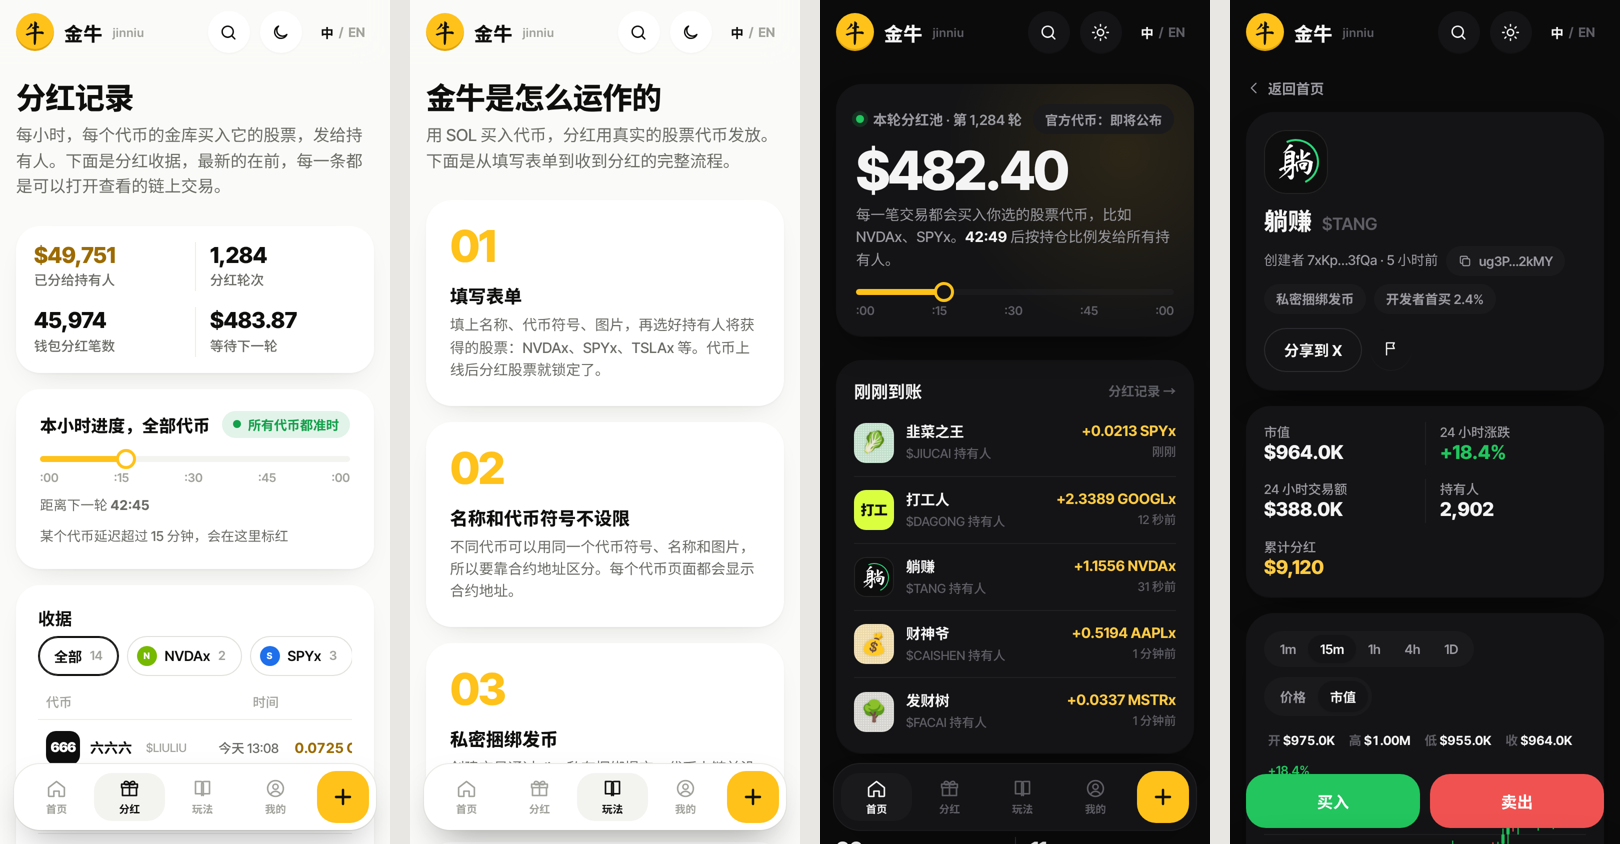
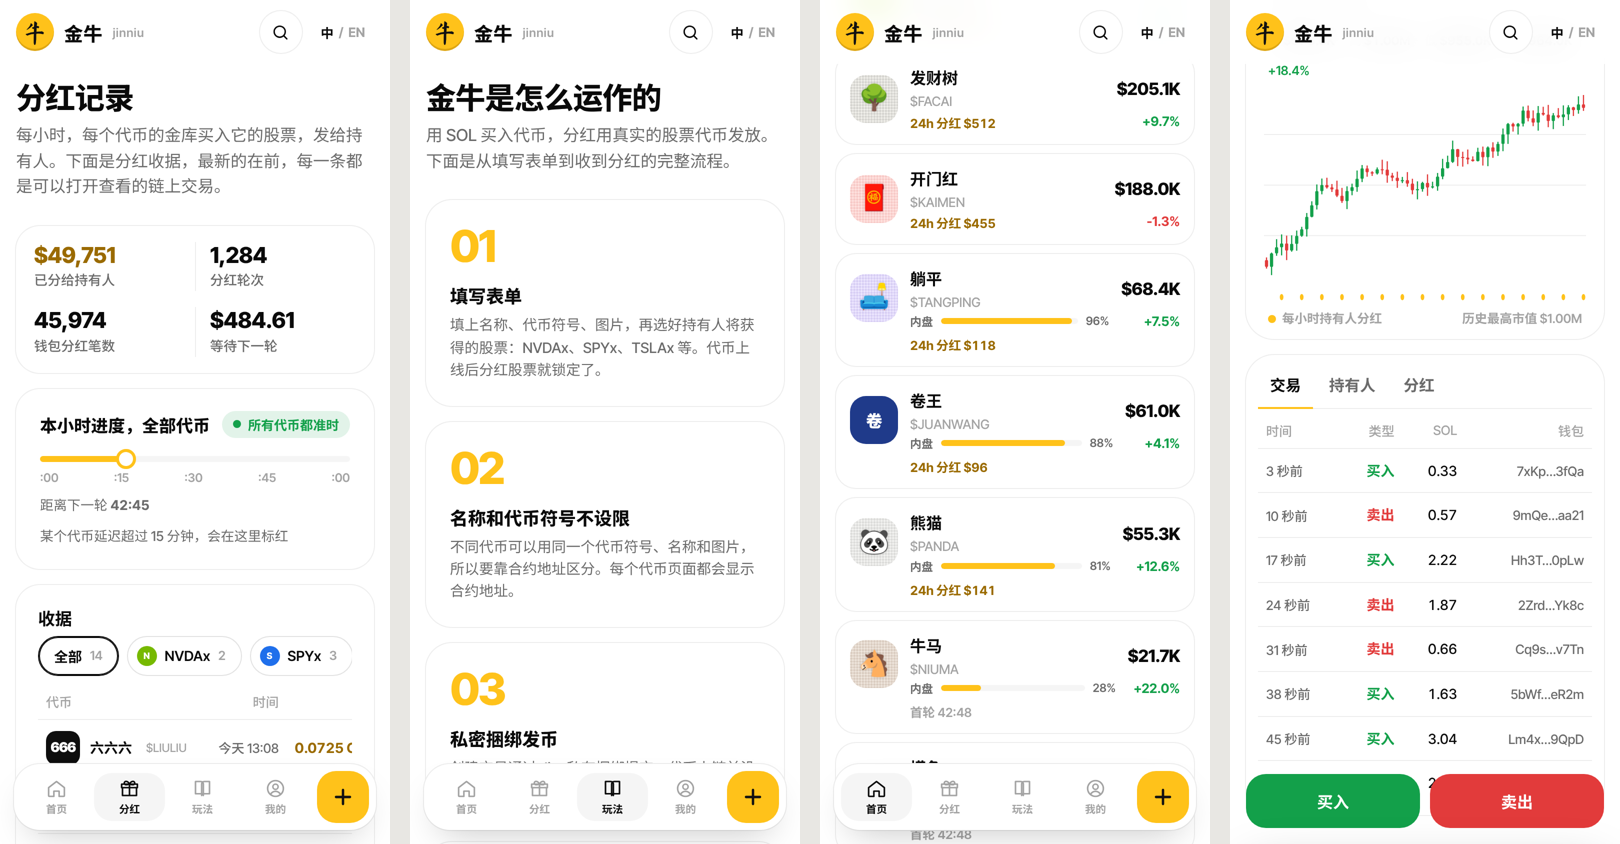
金牛 prototype: white only, cleaner
The owner wants it white and clean. The page is pure white with neutral
greys; cards, pills and buttons are drawn with hairlines instead of
shadows (a soft lift only on hover); the hero's gold glow is gone; and
the dark theme and its button are dropped. Gold stays for the one button,
the brand and anything holders are paid. CLAUDE.md, docs/BRAND.md and the
screenshots in brand/proposals/2026-11-02/jinniu/ follow.

Claude-Session: https://claude.ai/code/session_01GSU5jCk94sebeRPp2SSKC1

diff --git a/prototype/jinniu-prototype.html b/prototype/jinniu-prototype.html
@@ -10,30 +10,23 @@
 <style>
 /* 金牛 jinniu (owner, 2026-11-02): the brand that replaces hwai, in the clean look of proposal v4
    (brand/proposals/2026-11-02/v4-clean.html). Clean like Pons without its layout: a light page with
-   room (dark one click away), a top bar with the nav as a centred pill, one gold button, the round's
+   room, white only (owner, 2026-11-02: no dark theme), a top bar with the nav as a centred pill, one gold button, the round's
    pool as the hero with the hour as a line, a bento of featured coins, coins browsed by dividend
    stock, coins as cards, a floating dock on phones. Faces: Inter Tight for Latin and numbers, Noto
    Sans SC for Chinese. The mark is 牛 brushed on a gold coin (sketched here in Ma Shan Zheng; the
    final mark is drawn as paths). Every number on the page is demo data. */
 :root{
   color-scheme:light;
-  --bg:#FAFAF8;--card:#FFFFFF;--s1:#F3F3F0;--s2:#EAEAE6;--line:#ECECE8;--line2:#E0E0DB;
-  --tx:#0F0F0E;--tx2:#6B6B66;--tx3:#A2A29C;
+  --bg:#FFFFFF;--card:#FFFFFF;--s1:#F5F5F5;--s2:#EDEDED;--line:#EEEEEE;--line2:#E2E2E2;
+  --tx:#0A0A0A;--tx2:#6B6B6B;--tx3:#A3A3A3;
   --green:#13A04A;--red:#E23B3B;
-  --div:#9C6B00;--div-bg:#FFF3D1;
-  --acc:#FFC21A;--acc-hi:#FFCD3F;--acc-ink:#111;--acc-soft:#FFF6DA;
-  --sh:0 1px 2px rgba(20,20,10,.04),0 12px 32px -18px rgba(20,20,10,.18);
-  --sh-lg:0 30px 70px -30px rgba(20,20,10,.4);
+  --div:#9A6A00;--div-bg:#FFF8E6;
+  --acc:#FFC21A;--acc-hi:#FFCD3F;--acc-ink:#111;
+  --sh:0 0 0 1px var(--line);
+  --lift:0 0 0 1px var(--line2),0 14px 30px -20px rgba(0,0,0,.22);
+  --sh-lg:0 30px 70px -30px rgba(0,0,0,.3);
   --ff:"Inter Tight","Noto Sans SC","PingFang SC","Microsoft YaHei",system-ui,sans-serif;
   --up:var(--green);--dn:var(--red);
-}
-:root[data-theme="dark"]{
-  color-scheme:dark;
-  --bg:#0B0B0C;--card:#141416;--s1:#1A1A1D;--s2:#232327;--line:#212124;--line2:#2C2C30;
-  --tx:#F4F4F5;--tx2:#9A9AA0;--tx3:#5E5E65;--green:#22C55E;--red:#F05252;
-  --div:#FFCB45;--div-bg:rgba(255,203,69,.10);--acc-soft:rgba(255,194,26,.10);
-  --sh:0 1px 0 rgba(255,255,255,.03),0 16px 40px -20px rgba(0,0,0,.9);
-  --sh-lg:0 30px 70px -30px rgba(0,0,0,.95);
 }
 :root[data-updown="cn"]{--up:var(--red);--dn:var(--green)}
 *{box-sizing:border-box}
@@ -59,7 +52,6 @@ svg.ic{width:20px;height:20px;flex:none;fill:none;stroke:currentColor;stroke-wid
 /* coin pictures: stand-ins for creators' uploads */
 .tile{position:relative;display:grid;place-items:center;overflow:hidden;flex:none;background:var(--t-bg);color:var(--t-fg);font-size:var(--z)}
 .tile.dots{background:radial-gradient(circle,var(--t-dot) 1px,transparent 1.4px) 0 0/calc(var(--z)*.06) calc(var(--z)*.06),var(--t-bg)}
-:root[data-theme="dark"] .tile{box-shadow:inset 0 0 0 1px rgba(255,255,255,.09)}
 .tile .em{font:400 .52em/1 "Noto Color Emoji","Apple Color Emoji","Segoe UI Emoji",sans-serif;filter:drop-shadow(0 .03em .05em rgba(0,0,0,.18))}
 .tile .brush{font:400 .62em/1 "Ma Shan Zheng",serif}
 .tile .heavy{font:900 .34em/1 "Noto Sans SC",sans-serif;letter-spacing:-.02em}
@@ -104,7 +96,7 @@ button.pill:hover{color:var(--tx)}
 .bar i{position:absolute;inset:0 auto 0 0;border-radius:99px;background:var(--acc)}
 
 /* header */
-header.top{position:sticky;top:0;z-index:60;background:color-mix(in srgb,var(--bg) 82%,transparent);backdrop-filter:blur(16px);-webkit-backdrop-filter:blur(16px)}
+header.top{position:sticky;top:0;z-index:60;background:rgba(255,255,255,.88);backdrop-filter:blur(16px);-webkit-backdrop-filter:blur(16px)}
 .top .wrap{position:relative;display:flex;align-items:center;gap:10px;height:76px}
 .navpill{position:absolute;left:50%;transform:translateX(-50%);display:flex;gap:2px;padding:4px;border-radius:999px;background:var(--card);box-shadow:var(--sh)}
 .navpill a{padding:8px 18px;border-radius:999px;font:600 15px var(--ff);color:var(--tx2)}
@@ -118,7 +110,6 @@ header.top{position:sticky;top:0;z-index:60;background:color-mix(in srgb,var(--b
 /* home: hero */
 .hero{display:grid;grid-template-columns:minmax(0,1.25fr) minmax(0,.75fr);gap:24px;margin-top:20px}
 .pool{position:relative;overflow:hidden;padding:32px 36px 30px;border-radius:30px}
-.pool::after{content:"";position:absolute;right:-110px;top:-110px;width:360px;height:360px;border-radius:50%;background:radial-gradient(circle,var(--acc-soft),transparent 70%);pointer-events:none}
 .eyebrow{position:relative;z-index:1;display:flex;align-items:center;gap:9px;font:600 14px var(--ff);color:var(--tx2);flex-wrap:wrap}
 .eyebrow .pill{margin-left:auto}
 .pool .big{position:relative;z-index:1;font:800 clamp(56px,8vw,96px)/1 var(--ff);letter-spacing:-.045em;margin:16px 0 12px}
@@ -159,7 +150,7 @@ header.top{position:sticky;top:0;z-index:60;background:color-mix(in srgb,var(--b
 .sh p{margin:0;font:500 14.5px var(--ff);color:var(--tx3)}
 .sh .r{margin-left:auto;display:flex;gap:10px;align-items:center;flex-wrap:wrap}
 .bento{display:grid;grid-template-columns:minmax(0,1.6fr) minmax(0,1fr) minmax(0,1fr);gap:16px}
-.feat{grid-row:span 2;padding:24px;border-radius:28px;display:flex;flex-direction:column;cursor:pointer}
+.feat{grid-row:span 2;padding:24px;border-radius:28px;display:flex;flex-direction:column;cursor:pointer;transition:transform .15s,box-shadow .15s}
 .feat .hd{display:flex;gap:18px;align-items:center}
 .feat .tile{width:112px;height:112px;border-radius:24px;--z:112px}
 .feat h3{margin:8px 0 2px;font:800 26px/1.15 var(--ff)}
@@ -175,8 +166,8 @@ header.top{position:sticky;top:0;z-index:60;background:color-mix(in srgb,var(--b
 .box>span{display:block;font:500 12.5px var(--ff);color:var(--tx2)}
 .box>b{display:inline-flex;align-items:center;gap:7px;font:700 17px var(--ff)}
 .box>b.g{color:var(--div)}
-.mini{padding:18px;border-radius:24px;cursor:pointer;transition:transform .15s}
-.mini:hover,.cc:hover{transform:translateY(-2px)}
+.mini{padding:18px;border-radius:24px;cursor:pointer;transition:transform .15s,box-shadow .15s}
+.mini:hover,.cc:hover,.feat:hover{transform:translateY(-2px);box-shadow:var(--lift)}
 .mini .tile{width:100%;aspect-ratio:1.55;border-radius:18px;--z:150px}
 .mini .tile .em{font-size:.62em}.mini .tile .heavy{font-size:.4em}.mini .tile .num{font-size:.46em}.mini .tile .brush{font-size:.66em}
 .mini .nm{display:flex;align-items:baseline;gap:7px;margin-top:12px;font:700 16px var(--ff)}
@@ -188,7 +179,7 @@ header.top{position:sticky;top:0;z-index:60;background:color-mix(in srgb,var(--b
 .search input{border:0;outline:0;background:transparent;flex:1;min-width:0;color:var(--tx);font-size:14.5px}
 .search input::placeholder{color:var(--tx3)}
 .grid{display:grid;grid-template-columns:repeat(4,minmax(0,1fr));gap:16px;margin-top:20px}
-.cc{padding:18px;border-radius:24px;cursor:pointer;transition:transform .15s}
+.cc{padding:18px;border-radius:24px;cursor:pointer;transition:transform .15s,box-shadow .15s}
 .cc .hd{display:flex;align-items:center;gap:12px}
 .cc .tile{width:54px;height:54px;border-radius:16px;--z:54px}
 .cc .nm{min-width:0}
@@ -232,7 +223,7 @@ header.top{position:sticky;top:0;z-index:60;background:color-mix(in srgb,var(--b
 .chartc{padding:18px 18px 12px;border-radius:28px}
 .chart-top{display:flex;justify-content:space-between;gap:10px;flex-wrap:wrap}
 .chart-top .seg{box-shadow:none;background:var(--s1)}
-.chart-top .seg button[aria-pressed="true"]{background:var(--card);color:var(--tx);box-shadow:0 1px 2px rgba(0,0,0,.08)}
+.chart-top .seg button[aria-pressed="true"]{background:var(--card);color:var(--tx);box-shadow:0 0 0 1px var(--line2)}
 .legend{display:flex;gap:14px;flex-wrap:wrap;margin:14px 4px 0;font:600 12.5px var(--ff);color:var(--tx3)}
 .legend b{color:var(--tx);font-weight:700}
 svg.kl{display:block;width:100%;height:320px;margin-top:6px}
@@ -356,7 +347,6 @@ table.t{width:100%;border-collapse:collapse}
 .mesum .card{padding:22px 24px;border-radius:26px}
 .mesum .card>span{display:block;font:500 13.5px var(--ff);color:var(--tx2)}
 .mesum .card>b{font:800 30px/1.2 var(--ff);letter-spacing:-.02em}
-.mesum .first{background:linear-gradient(160deg,var(--acc-soft),transparent 60%),var(--card)}
 .mesum .first>b{color:var(--div);font-size:40px}
 .mesum small{display:block;margin-top:2px;color:var(--tx2);font-size:13.5px}
 .mesum small b{font-weight:700;color:var(--up)}
@@ -388,11 +378,11 @@ footer.foot{margin-top:40px;border-top:1px solid var(--line)}
   .steps{grid-template-columns:1fr 1fr}
   .stocks{grid-template-columns:repeat(3,minmax(0,1fr))}
 }
-@media (max-width:1100px) and (min-width:1001px){.top .lang,.top .theme{display:none}}
+@media (max-width:1100px) and (min-width:1001px){.top .lang{display:none}}
 @media (max-width:1000px){
   .navpill{display:none}
   body{padding-bottom:110px}
-  .dock{display:grid;grid-template-columns:repeat(4,1fr) auto;align-items:center;gap:2px;position:fixed;left:50%;transform:translateX(-50%);width:min(520px,calc(100% - 28px));bottom:calc(14px + env(safe-area-inset-bottom,0px));z-index:80;padding:7px;border-radius:26px;background:var(--card);box-shadow:0 18px 40px -14px rgba(0,0,0,.35),0 0 0 1px var(--line)}
+  .dock{display:grid;grid-template-columns:repeat(4,1fr) auto;align-items:center;gap:2px;position:fixed;left:50%;transform:translateX(-50%);width:min(520px,calc(100% - 28px));bottom:calc(14px + env(safe-area-inset-bottom,0px));z-index:80;padding:7px;border-radius:26px;background:var(--card);box-shadow:0 16px 36px -16px rgba(0,0,0,.25),0 0 0 1px var(--line)}
   .dock a{display:flex;flex-direction:column;align-items:center;gap:2px;padding:5px 0;border-radius:18px;font:600 10.5px var(--ff);color:var(--tx3)}
   .dock a[aria-current="page"]{color:var(--tx);background:var(--s1)}
   .dock svg{width:21px;height:21px}
@@ -468,7 +458,7 @@ footer.foot{margin-top:40px;border-top:1px solid var(--line)}
   svg.kl{height:220px}
   .tabsc{padding:4px 12px 10px}
   .t .hide-s{display:none}
-  .cgrid aside .trade{position:fixed;left:0;right:0;bottom:0;z-index:95;border-radius:26px 26px 0 0;padding:10px 18px calc(22px + env(safe-area-inset-bottom,0px));transform:translateY(105%);transition:transform .25s ease;box-shadow:0 -20px 50px -20px rgba(0,0,0,.45)}
+  .cgrid aside .trade{position:fixed;left:0;right:0;bottom:0;z-index:95;border-radius:26px 26px 0 0;padding:10px 18px calc(22px + env(safe-area-inset-bottom,0px));transform:translateY(105%);transition:transform .25s ease;box-shadow:0 -20px 50px -20px rgba(0,0,0,.25),0 0 0 1px var(--line)}
   .cgrid aside .trade::before{content:"";display:block;width:40px;height:4px;border-radius:9px;background:var(--line2);margin:0 auto 12px}
   body.sheet .cgrid aside .trade{transform:none}
   body.sheet .sheet-bg{display:block;position:fixed;inset:0;z-index:94;background:rgba(0,0,0,.35)}
@@ -496,8 +486,6 @@ footer.foot{margin-top:40px;border-top:1px solid var(--line)}
   <symbol id="i-plus" viewBox="0 0 24 24"><path d="M12 5v14M5 12h14"/></symbol>
   <symbol id="i-gift" viewBox="0 0 24 24"><path d="M4 11h16v9H4zM3 7h18v4H3zM12 7v13M12 7c-2-4-6-4-6-1s6 1 6 1zm0 0c2-4 6-4 6-1s-6 1-6 1z"/></symbol>
   <symbol id="i-book" viewBox="0 0 24 24"><path d="M4 4h6a3 3 0 0 1 3 3v13a2 2 0 0 0-2-2H4zM20 4h-6a3 3 0 0 0-3 3v13a2 2 0 0 1 2-2h7z"/></symbol>
-  <symbol id="i-moon" viewBox="0 0 24 24"><path d="M20 14.5A8 8 0 1 1 9.5 4a6.5 6.5 0 0 0 10.5 10.5z"/></symbol>
-  <symbol id="i-sun" viewBox="0 0 24 24"><circle cx="12" cy="12" r="4"/><path d="M12 2v2M12 20v2M4.9 4.9l1.4 1.4M17.7 17.7l1.4 1.4M2 12h2M20 12h2M4.9 19.1l1.4-1.4M17.7 6.3l1.4-1.4"/></symbol>
   <symbol id="i-wallet" viewBox="0 0 24 24"><path d="M4 7a2 2 0 0 1 2-2h11v4"/><rect x="4" y="9" width="16" height="11" rx="2"/><path d="M16 14.5h.01"/></symbol>
   <symbol id="i-home" viewBox="0 0 24 24"><path d="M3 11l9-7 9 7v9a1 1 0 0 1-1 1h-5v-6H9v6H4a1 1 0 0 1-1-1z"/></symbol>
   <symbol id="i-me" viewBox="0 0 24 24"><circle cx="12" cy="12" r="9"/><circle cx="12" cy="10" r="3"/><path d="M6.5 18.5c1.3-2.2 3.2-3.3 5.5-3.3s4.2 1.1 5.5 3.3"/></symbol>
@@ -520,7 +508,6 @@ footer.foot{margin-top:40px;border-top:1px solid var(--line)}
     </nav>
     <div class="tr">
       <button class="icb" type="button" id="findBtn" aria-label="搜索代币"><svg class="ic"><use href="#i-search"/></svg></button>
-      <button class="icb theme" type="button" id="themeBtn" aria-label="切换深色模式"><svg class="ic"><use href="#i-moon"/></svg></button>
       <div class="lang" role="group" aria-label="语言"><button type="button" aria-pressed="true">中</button><i>/</i><button type="button" aria-pressed="false">EN</button></div>
       <a class="btn btn-ghost connectb" href="#me"><svg class="ic" style="width:18px;height:18px"><use href="#i-wallet"/></svg>连接钱包</a>
       <a class="btn btn-acc createb" href="#create">创建代币</a>
@@ -974,10 +961,7 @@ $("#holds").innerHTML=[["JIUCAI","1,204,551","$2,191","+0.0213 SPYx","$118.40"],
 $("#cfTile").innerHTML=tile("dagong");
 $("#claim").onclick=()=>toast("演示原型：这里会请你的钱包签名领取");
 
-/* ---------- theme, up/down, language ---------- */
-function setTheme(t){document.documentElement.dataset.theme=t;$("#themeBtn use").setAttribute("href",t==="dark"?"#i-sun":"#i-moon");store.set("jn-theme",t);if($("[data-view=coin].on"))drawChart()}
-setTheme(store.get("jn-theme")||(matchMedia("(prefers-color-scheme: dark)").matches?"dark":"light"));
-$("#themeBtn").onclick=()=>setTheme(document.documentElement.dataset.theme==="dark"?"light":"dark");
+/* ---------- up/down, language ---------- */
 $$("[data-ud]").forEach(b=>b.onclick=()=>{document.documentElement.dataset.updown=b.dataset.ud==="red"?"cn":"intl";$$("[data-ud]").forEach(x=>x.setAttribute("aria-pressed",x===b))});
 $$(".lang button").forEach(b=>b.onclick=()=>$$(".lang button").forEach(x=>x.setAttribute("aria-pressed",x===b)));
 

diff --git a/CLAUDE.md b/CLAUDE.md
@@ -7,7 +7,7 @@ Divvy is a Solana memecoin launchpad built on Raydium LaunchLab. Every coin trad
 
 **Name:** the product is **hwai** (`hwai.ai`) since 2026-10-31, the owner's rebrand; they dropped the uspad name and its Koin belah logo entirely (uspad on `uspad.fun` ran from 2026-10-26; the repo is still `fourtisf/uspad`). Everything users see says hwai, with the brush seal mark (牛, the bull of 牛市, brushed in a hand-stamped lime seal) and the brush "hwai" wordmark (owner, 2026-11-01: the earlier geometric logos looked "too AI"). `brand/hwai/src/niu.py` draws them from Ma Shan Zheng outlines (SIL OFL 1.1, `glyphs.json`), so no font file ships. The name comes from `BRAND` in `packages/shared/src/brand.ts`: web copy, API messages, the sign-in statement, alerts and new coins' metadata. The X and Telegram handles are build-time env (`NEXT_PUBLIC_X_HANDLE`, `NEXT_PUBLIC_TELEGRAM_HANDLE`; `go-live.sh socials`), so no old handle is hard-coded. hwai is a **new launchpad from zero** (owner, 2026-10-31): its own server, new wallets, an empty database and its own PlatformConfig named hwai; `go-live.sh bootstrap` sets up that server (deploy/mainnet/README.md). uspad (uspad.fun, the $USPAD token, its PlatformConfig and coins) stays on its own server and carries nothing over. `go-live.sh domain` and `platform-info` exist for moving or renaming the uspad server, which isn't the plan. Internal names still say Divvy or uspad: the `@divvy/*` packages, `DIVVY_*` env vars, `divvy:` Redis keys, server paths like `/root/uspad-keys`, and these docs.
 
-**Rebrand to 金牛 jinniu (owner, 2026-11-02), not live yet.** The owner picked 金牛 (jīnniú, "golden bull"; 现金牛 is a cash cow) to replace hwai everywhere users see it, in a clean light look (dark one click away) after the Pons launchpad without copying it. The prototype is `prototype/jinniu-prototype.html`; it waits for the owner's approval, and until then the approved UI and rule 1 stay on `hwai-niu-prototype.html` and the site keeps saying hwai. $HWAI is hidden from the new site (`go-live.sh token-ca off`) until the owner launches a new official token and sends its CA. Still open: the domain, the PlatformConfig rename (a mainnet transaction, rule 3), the X and Telegram handles, the final mark drawn as paths. How it got here: docs/BRAND.md, "金牛 jinniu".
+**Rebrand to 金牛 jinniu (owner, 2026-11-02), not live yet.** The owner picked 金牛 (jīnniú, "golden bull"; 现金牛 is a cash cow) to replace hwai everywhere users see it, in a clean white look (white only, no dark theme: owner, 2026-11-02) after the Pons launchpad without copying it. The prototype is `prototype/jinniu-prototype.html`; it waits for the owner's approval, and until then the approved UI and rule 1 stay on `hwai-niu-prototype.html` and the site keeps saying hwai. $HWAI is hidden from the new site (`go-live.sh token-ca off`) until the owner launches a new official token and sends its CA. Still open: the domain, the PlatformConfig rename (a mainnet transaction, rule 3), the X and Telegram handles, the final mark drawn as paths. How it got here: docs/BRAND.md, "金牛 jinniu".
 
 **Language:** the site is Chinese first (owner, 2026-10-31): Simplified Chinese by default, English with the 中 / EN switch, and an up/down colour switch in the footer: green up by default since design 牛 (crypto's way; the all-red design A read as bearish), red up (Chinese stock apps) as the option. How copy is written, the Chinese style and the glossary: `apps/web/src/i18n/README.md`.
 

diff --git a/docs/BRAND.md b/docs/BRAND.md
@@ -250,7 +250,7 @@ A rename also touches: $HWAI (launched on pump.fun the same day; its name stays 
 After the proposals above the owner asked what set 发发 and 红利 apart (only the name, mark, meaning and button colour; the look is the same) and confirmed they want a new brand, not hwai. They picked **金牛 jinniu**, and for $HWAI, a new official token later.
 
 - **Name:** 金牛, written jinniu in Latin. 牛 stays from the hwai seal; the mark is 牛 brushed on a gold coin. The prototype sketches it in Ma Shan Zheng from Google Fonts; the final mark and wordmark get drawn as paths (like `brand/hwai/src/niu.py`), with the icons and share images regenerated.
-- **Look:** v4 above, as a full prototype: [`prototype/jinniu-prototype.html`](../prototype/jinniu-prototype.html), one file with every page (首页, 代币, 创建代币, 分红记录, 玩法, 我的) behind its links, light by default with a dark theme (the moon button, kept per browser), the 中 / EN switch and the up/down colour switch. On phones the nav moves to a floating dock with + to launch, the coin page's trade box opens as a bottom sheet from 买入 / 卖出, and coin cards turn into rows. Faces: Inter Tight for Latin and numbers, Noto Sans SC for Chinese. Gold `#FFC21A` for the one button and the brand, green up, red down, dark gold for anything holders are paid. Copy follows the current app: launches cost 0.02 SOL plus the coin's create cost; the fee split is the prototype's demo split.
+- **Look:** v4 above, as a full prototype: [`prototype/jinniu-prototype.html`](../prototype/jinniu-prototype.html), one file with every page (首页, 代币, 创建代币, 分红记录, 玩法, 我的) behind its links, white only (the owner, after seeing it: "warna putih aja clean"; the dark theme and its button were dropped, the greys made neutral, cards drawn with hairlines instead of shadows and the hero's gold glow removed), the 中 / EN switch and the up/down colour switch. On phones the nav moves to a floating dock with + to launch, the coin page's trade box opens as a bottom sheet from 买入 / 卖出, and coin cards turn into rows. Faces: Inter Tight for Latin and numbers, Noto Sans SC for Chinese. Gold `#FFC21A` for the one button and the brand, green up, red down, dark gold for anything holders are paid. Copy follows the current app: launches cost 0.02 SOL plus the coin's create cost; the fee split is the prototype's demo split.
 - **$HWAI:** hidden from the new site (`go-live.sh token-ca off`) until the owner launches a new official token and sends its CA (`go-live.sh token-ca <CA>`). The hero shows "官方代币：即将公布" meanwhile.
 - **Open:** the domain (not checked from here; WHOIS is blocked), the PlatformConfig's name, web and picture (a mainnet transaction, owner approval), the X and Telegram handles, the intro video, the article and the share images.
 
